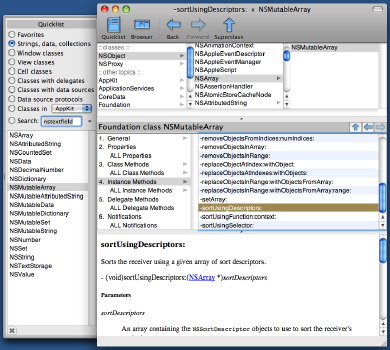
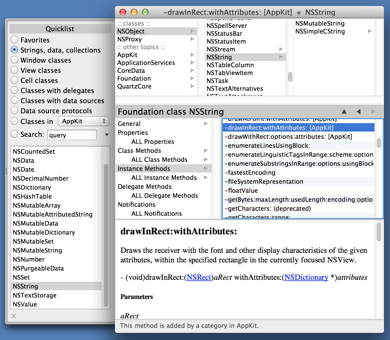
Preparing to release 0.995.

diff --git a/web/html/release-notes.html b/web/html/release-notes.html
@@ -47,44 +47,63 @@
 
 <table><tr><td>
 
-<h2>Version WIP (Whenevuary 15, 2013)</h2>
+<h2>Version 0.995 (March 26, 2013)</h2>
+
+<h3>System requirements</h3>
+
 <ul>
-<li>"Pop Quiz" feature. Just for grins. Hit Go > Pop Quiz (Option-Command-P) and you're presented with a random API symbol. You can quiz yourself on what the symbol is before proceeding to see the docs for it.</li>
+<li>AppKiDo 0.995 requires OS X 10.6 (Snow Leopard) or higher. 10.5 is no longer supported.</li>
+</ul>
+
+<h3>Features and feature improvements</h3>
+
+<ul>
+<li>"Pop Quiz" feature. Just for grins. Hit Go > Pop Quiz (Control-Command-P) and you're presented with a random API symbol. You can quiz yourself on what the symbol is before proceeding to see the docs for it.</li>
 <li>The "Window classes" and "Cell classes" quicklists don't make sense for iOS. AppKiDo-for-iPhone now lists "View controller classes" and "Layer classes" instead.</li>
-<li>Fixed bug where secondary frameworks weren't showing up in the Overview doc list (NSString > "AppKit Additions" wasn't showing up).</li>
 <li>Added NSHashTable to the "Strings, data, collections" quicklist.</li>
-<li>Fixed the autoenabling and actions of the "General", "Properties", "ALL Properties", etc. menu items.</li>
 <li>Added a "Header File" menu item, with Shift-Command-H as the shortcut.</li>
-<li>More sensible split view resizing when you resize the window and when you collapse/expand the topic browser. Only the bottom section (the "doc view") resizes.</li>
-<li>Thin splitters in the split views. A little harder to hit with the mouse, but looks nicer.</li>
 <li>The standard Option-Command-H shortcut is now assigned to "Hide Others".</li>
-<li>Changed the look of the small navigation buttons below the topic browser, and the button in the quicklist drawer for deleting the selected Favorite.</li>
-<li>The popup menus for the navigation buttons now use small fonts.</li>
-<li>The two views in the middle section -- the "subtopic list" and the "doc list" -- are now in a split view so you can adjust their relative sizes. The relative sizes are remembered when the window is restored on relaunch and when you use the "Remember This Window's Layout" feature.</li>
-<li>When the subtopic list navigates, it now scrolls if necessary to reveal the newly selected subtopic. Example: do a search for "clip", and in the search results select CGContextClip; the subtopics list autoscrolls to make "CGContextClip" visible.</li>
-<li>Added Copy and Copy File Path to contextual menu. Speech too.</li>
-<li>Searching for "setFoo" searches for properties named "foo" as well as any symbol containing "setfoo" (inspired by this feature of Xcode and Dash).</li>
-<li>After a search, we now select the first search result with the search string as a prefix. (Example: search for "query" and -[NSURL query] should be selected.) This is an old feature that was broken for awhile.</li>
+<li>Added Copy, Copy File Path, and Speech to the contextual menu in the doc view.</li>
+<li>Doing a search for "setFoo" now searches for properties named "foo" as well as any symbol containing "setfoo" (inspired by the same feature in Xcode and Dash).</li>
+</ul>
+
+<h3>Appearance and layout</h3>
+
+<ul>
+<li>The two views in the middle section -- the "subtopic list" and the "doc list" -- are now in a split view so you can adjust their relative widths. The widths are remembered when the window is restored on relaunch and when you use the "Remember This Window's Layout" feature.</li>
+<li>More sensible split view resizing when you resize the window and when you collapse/expand the topic browser. Only the bottom section (the "doc view") resizes, instead of all three sections (top, middle, bottom).</li>
+<li>Thin splitters in the split views. A little harder to hit with the mouse, but looks nicer.</li>
 <li>Made the default drawer size wider.</li>
-<li>Slight correction to what is displayed in the "Add X to Favorites" menu item. It now matches what gets displayed in the Quicklist -- e.g., "AppKit Functions", not just "Functions".</li>
-<li>Fixed quirk: if you select text in the web view and do "Use Selection for Find" (Command-E), we were momentarily focusing the quicklist search field, thus removing focus from the web view, which caused "Find Next" (Command-G) to start from the beginning of the web view instead of from where you were.</li>
 <li>Focus ring appearance. Solid blue border around the browser, around each list, and around the web/text view. (Other items such as buttons use the standard Cocoa focus ring.)</li>
 <li>Focus ring behavior. Tab/Shift-Tab cycles through views in the drawer as well as the main window, and it includes the topic browser as it makes the rounds.</li>
-<li>Code changes not affecting functionality. Of interest only if you've been looking at the code. I went through and changed a lot of things that didn't necessarily make the app work any better, but made me feel happier about the code because it doesn't feel so antiquated.
-	<ul>
-	<li>Replaced NSEnumeration with fast enumeration everywhere. Doesn't make any difference to the user, but it makes the code seem less ancient.</li>
-	<li>Replaced deprecated method calls with their recommended replacements.</li>
-	<li>Got rid of the AKFramework class. A string containing the framework name is used to indicate membership in a framework.</li>
-	<li>NSViewControllers and NSWindowControllers, with separate nibs for the various panes, instead of my old hand-rolled view and window controllers.</li>
-	<li>Tabless NSTabView for the doc view. One tab for the web view used to display docs, one for the text view used to display headers. This replaces the hand-coded view swapping I was doing (not sure why, since it looks like tabless tabviews have always been supported). Also replaces programmatically creating the WebView, which was left over from back when WebKit was not necessarily present on the user's machine.</li>
-	</ul>
-</li>
-<li>Updated coding conventions to be more like current mainstream.
+<li>Changed the look of the small navigation buttons below the topic browser (they're now black triangles with no borders), and the button in the quicklist drawer for deleting the selected Favorite (it's now a thinner "x" with no border). The popup menus for the navigation buttons now use small fonts.</li>
+</ul>
+
+<h3>Fixes</h3>
+
+<ul>
+<li>After a search, we now select the first search result with the search string as a prefix. (Example: search for "query" and -[NSURL query] should be selected.) This is an old feature that was broken for awhile.</li>
+<li>Fixed bug where secondary frameworks weren't showing up in the Overview doc list (e.g., NSString > "AppKit Additions" wasn't showing up).</li>
+<li>Slight correction to what is displayed in the "Add X to Favorites" menu item. It now matches what gets displayed in the Quicklist -- e.g., "AppKit Functions", not just "Functions".</li>
+<li>Fixed a quirk: if you select text in the web view and do "Use Selection for Find" (Command-E), we were momentarily focusing the quicklist search field, thus removing focus from the web view, which caused "Find Next" (Command-G) to start from the beginning of the web view instead of from where you were.</li>
+<li>Fixed the autoenabling and actions of the "General", "Properties", "ALL Properties", etc. menu items.</li>
+<li>When the subtopic list navigates, it now scrolls if necessary to reveal the newly selected subtopic. Example: do a search for "clip", and in the search results select CGContextClip; the subtopics list autoscrolls to make "CGContextClip" visible.</li>
+</ul>
+
+<h3>Code cleanup and modernization</h3>
+
+<ul>
+<li>Replaced NSEnumeration with fast enumeration everywhere. Doesn't make any difference to the user, but it makes the code seem less ancient.</li>
+<li>Replaced deprecated method calls with their recommended replacements.</li>
+<li>Replaced most of my hand-rolled view controllers and window controllers with NSViewControllers and NSWindowControllers.</li>
+<li>Tabless NSTabView for the doc view. One tab for the web view used to display docs, one for the text view used to display headers. This replaces the hand-coded view swapping I was doing (not sure why, since it looks like tabless tabviews have always been supported). Also replaces programmatically creating the WebView, which was left over from back when WebKit was not necessarily present on the user's machine.</li>
+<li>Got rid of the AKFramework class. A string containing the framework name is used to indicate membership in a framework.</li>
+<li>Coding conventions.
 	<ul>
 	<li>Now using Xcode's built-in reformatting, so for example multi-line method names align on colons.</li>
 	<li>Replaced hand-coded accessors with properties (although still declaring ivars in the @interface to be 32-bit compatible).</li>
 	<li>Using the new @-literals (although not square-bracket collection indexing, because it's not supported in 10.6).</li>
-	<li>Changed style of class and method comments. No more explicit @description, @param, etc. sections. (Note: is not proper HeaderDoc syntax in some places.)</li>
+	<li>Simplified class and method comments. Got rid of HeaderDoc tags (@description, @param, etc.). Haven't made these changes to all the source files yet, but many.</li>
 	</ul>
 </li>
 </ul>

diff --git a/web/html/index.html b/web/html/index.html
@@ -73,8 +73,8 @@
 
 <p><b>Requirements:</b></p>
 <ul>
-<li>Mac OS X 10.5 or higher<br/></li>
-<li>Xcode 3.x or higher</li>
+<li>Mac OS X 10.6 (Snow Leopard) or higher <span style="font-weight:bold; color:red;">[10.5 is no longer supported]</span></li>
+<li>Xcode 3.2.6 or higher, with one or more docsets <a href="faq.html">downloaded</a></li>
 </ul>
 
 <p><b>Features:</b></p>
@@ -83,6 +83,7 @@
 <li><a href="#consolidated-list">Consolidated list of methods</a></li>
 <li><a href="#quicklists">Quicklists</a></li>
 <li><a href="#search">Search</a></li>
+<li><a href="#popquiz">Pop Quiz</a> <span style="font-weight:bold; color:red;">[new]</span></li>
 <li><a href="#system-service">Search from anywhere ("method-aware")</a></li>
 <li><a href="#header-files">Header files</a></li>
 </ul>
@@ -102,7 +103,7 @@
 <table class="featuresTable">
 <tr>
     <td class="featuresLeftColumn">
-    	<p>AppKiDo presents the class hierarchy in a view much like the Finder's "Columns" view. You can see sibling classes at a glance and go up and down the hierarchy with a single click. This is convenient because the method you're looking for is often in a superclass.</p>
+    	<p>AppKiDo presents the class hierarchy in a view much like the Finder's "Columns" view. You can see sibling classes at a glance and go up and down the hierarchy with a single click. This is convenient because the method you're looking for is sometimes in a superclass.</p>
 	    <p>If you are new to Cocoa, browse the class hierarchy to get acquainted with what's there and how it's organized. If you are more experienced, you can explore branches of the hierarchy you never paid attention to before.</p>
 	</td>
 
@@ -115,7 +116,7 @@
 
 <table class="featuresTable">
 <tr>
-    <td class="featuresLeftColumn"><p>AppKiDo can display a consolidated list of all methods a class implements, including inherited methods, methods that satisfy a protocol, and methods added by a framework other than the class's main framework (for example, the drawing methods that AppKit adds to NSAttributedString). This can help you understand the complete behavior of a class, and it's another quick way to find methods that are in a superclass.</p></td>
+    <td class="featuresLeftColumn"><p>AppKiDo can display a consolidated list of all methods a class implements, including inherited methods, methods that satisfy a protocol, and methods added by a framework other than the class's main framework (for example, the drawing methods that AppKit adds to NSString). This can help you understand the complete behavior of a class, and it's another quick way to find methods that are in a superclass.</p></td>
 
     <td class="featuresRightColumn"><img src="images/consolidated.png"></img></td>
 </tr>
@@ -126,9 +127,11 @@
 
 <table class="featuresTable">
 <tr>
-    <td class="featuresLeftColumn"><p>AppKiDo provides handy "quicklists" of logically related groups of classes. This puts many frequently used classes a click or two away. It can also help you understand some concepts. For example, if you find delegates confusing, it may help to browse "Classes with delegates" to see all the ways a delegate is used.</p></td>
+    <td class="featuresLeftColumn"><p>AppKiDo provides handy "quicklists" of logically related groups of classes. This puts many frequently used classes a click or two away. It can also help you understand some concepts. For example, if you find delegates confusing, it may help to browse "Classes with delegates" to see all the ways a delegate is used.</p>
 
-    <td class="featuresRightColumn"><img src="images/quicklists.png"></img></td>
+		<p>Since iOS doesn't have window or cell classes, AppKiDo-for-iPhone offers quicklists for "View controller classes" and "Layer classes" instead.</p></td>
+
+    <td class="featuresRightColumn"><img src="images/quicklists.png" style="vertical-align:top;"></img><img src="images/quicklists-ios.png" style="vertical-align:top;"></img></td>
 </tr>
 </table>
 
@@ -140,6 +143,17 @@
     <td class="featuresLeftColumn"><p>If you're not sure what you're looking for, AppKiDo can search for names of API constructs. For example, if you're wondering how to manage cursors, search for "cursor". Apple has conveniently put the word "cursor" in the names of most things related to cursors.</p></td>
 
     <td class="featuresRightColumn"><img src="images/search.png"></img></td>
+</tr>
+</table>
+
+<!-- --- pop quiz --- -->
+<h2><a name="popquiz">Pop Quiz</a></h2>
+
+<table class="featuresTable">
+<tr>
+    <td class="featuresLeftColumn"><p>To encourage exploration, AppKiDo has a "Pop Quiz" feature that presents a random API symbol. You can try to remember or guess the meaning of the symbol before seeing the documentation for it.</p></td>
+
+    <td class="featuresRightColumn"><img src="images/popquiz.png"></img></td>
 </tr>
 </table>
 
@@ -169,7 +183,7 @@
 
 <table class="featuresTable">
 <tr>
-    <td class="featuresLeftColumn"><p>AppKiDo can open the header file for any Cocoa class. Sometimes there is useful information in the headers that is not available in the documentation.</p></td>
+    <td class="featuresLeftColumn"><p>AppKiDo can open the header file for any Cocoa class or protocol. Sometimes there is useful information in the headers that is not available in the documentation.</p></td>
 
     <td class="featuresRightColumn"><img src="images/header.png"></img></td>
 </tr>
